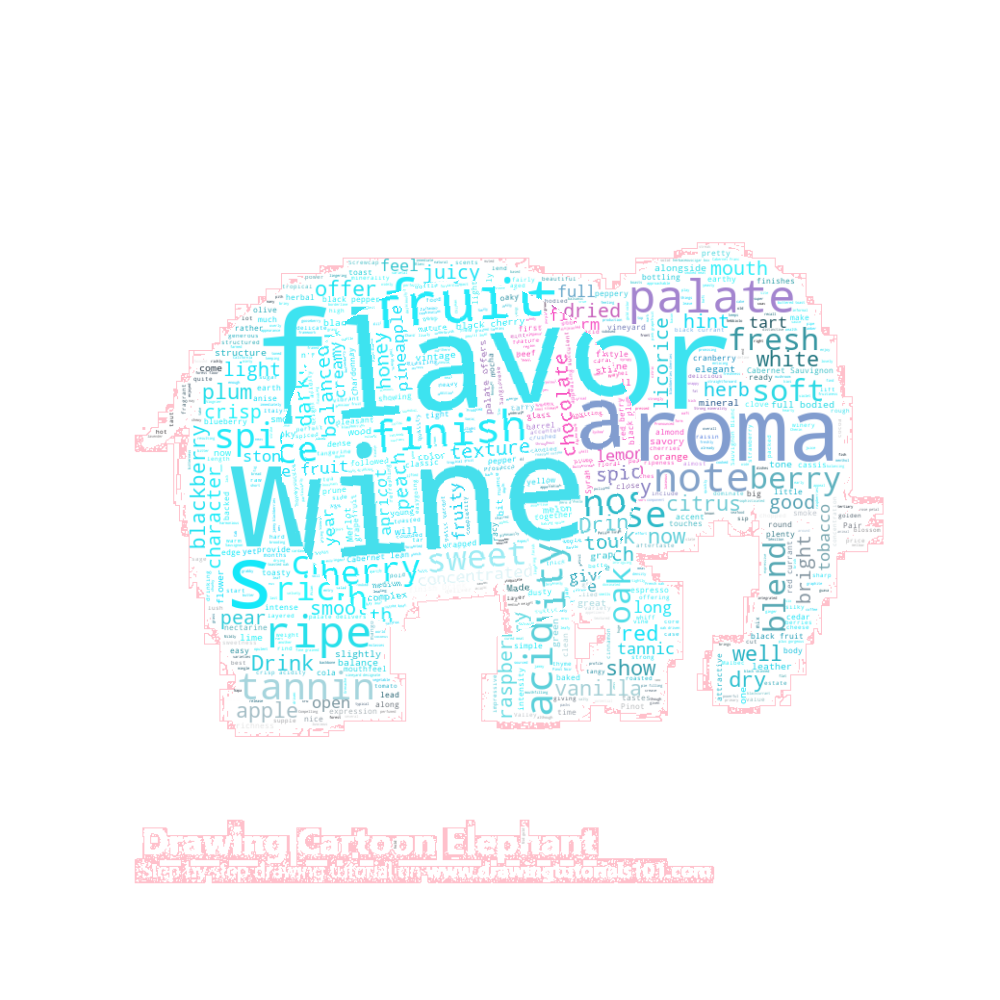
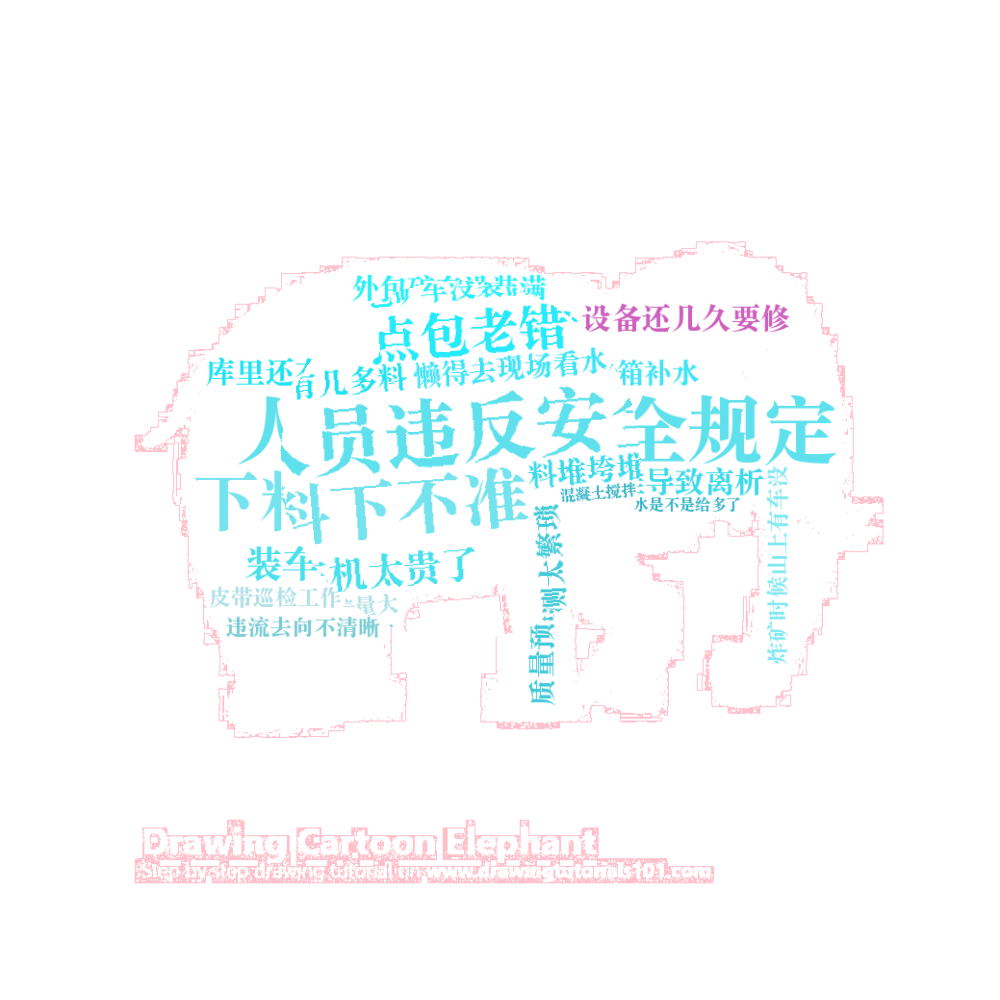
change word_cloud for shangqiao

Changed region(s): [[0.155, 0.248, 0.868, 0.744]]

diff --git a/university_counselor/b13284_wordcount/i0word_cloud.py b/university_counselor/b13284_wordcount/i0word_cloud.py
@@ -25,6 +25,7 @@ def  main():
 	print('background_img=', args.background_img)
 	# --- read method 1 : read dataset of winemag-data-130k-v2.csv ----
 	df = pd.read_csv("Data/demo.csv", index_col=0)
+	df = pd.read_csv("Data/demo1.csv", index_col=0)
 	# print(df)
 
 	text = " ".join(review for review in df.description)
@@ -90,7 +91,8 @@ def  main():
 	wc = WordCloud(stopwords=stopwords,background_color='white',
 				 mask=bg, mode='RGB', 
 				max_words= 10000, contour_width=1,
-				contour_color='pink')
+				contour_color='pink',
+				font_path="/Library/Fonts/Songti.ttc")
 	wc.generate(text)
 
 	image_colors = ImageColorGenerator(bg)
